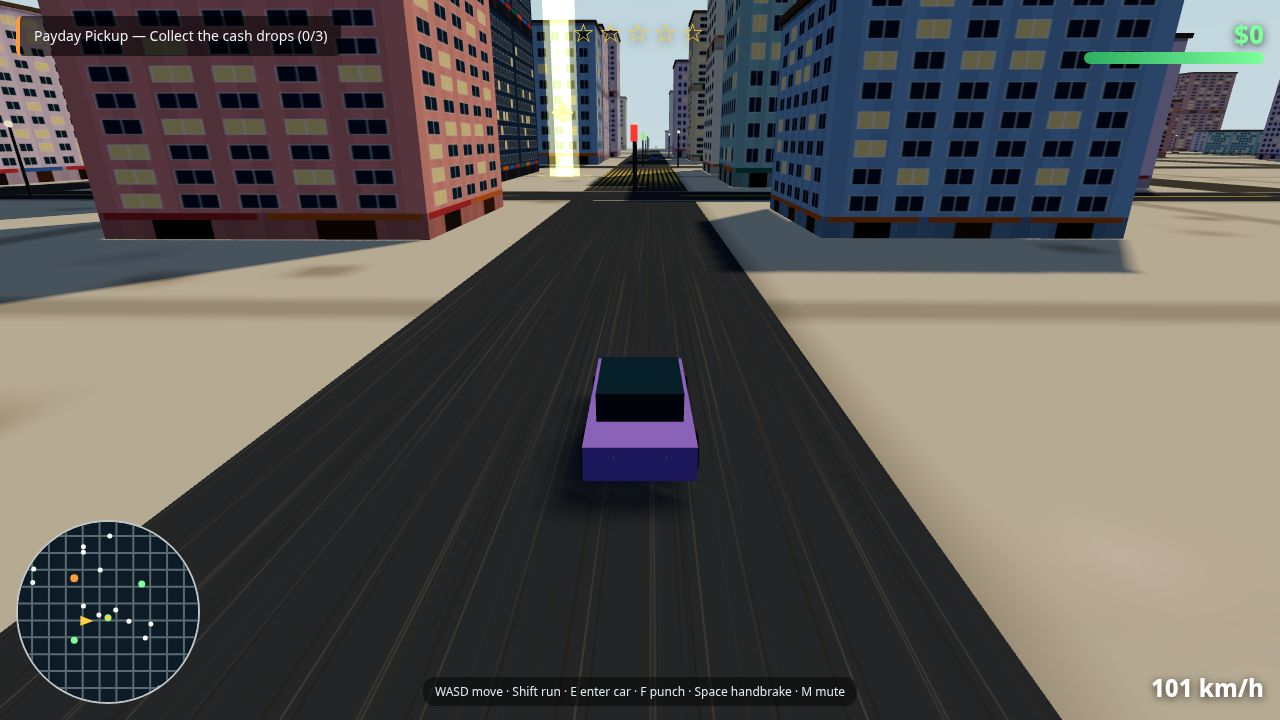
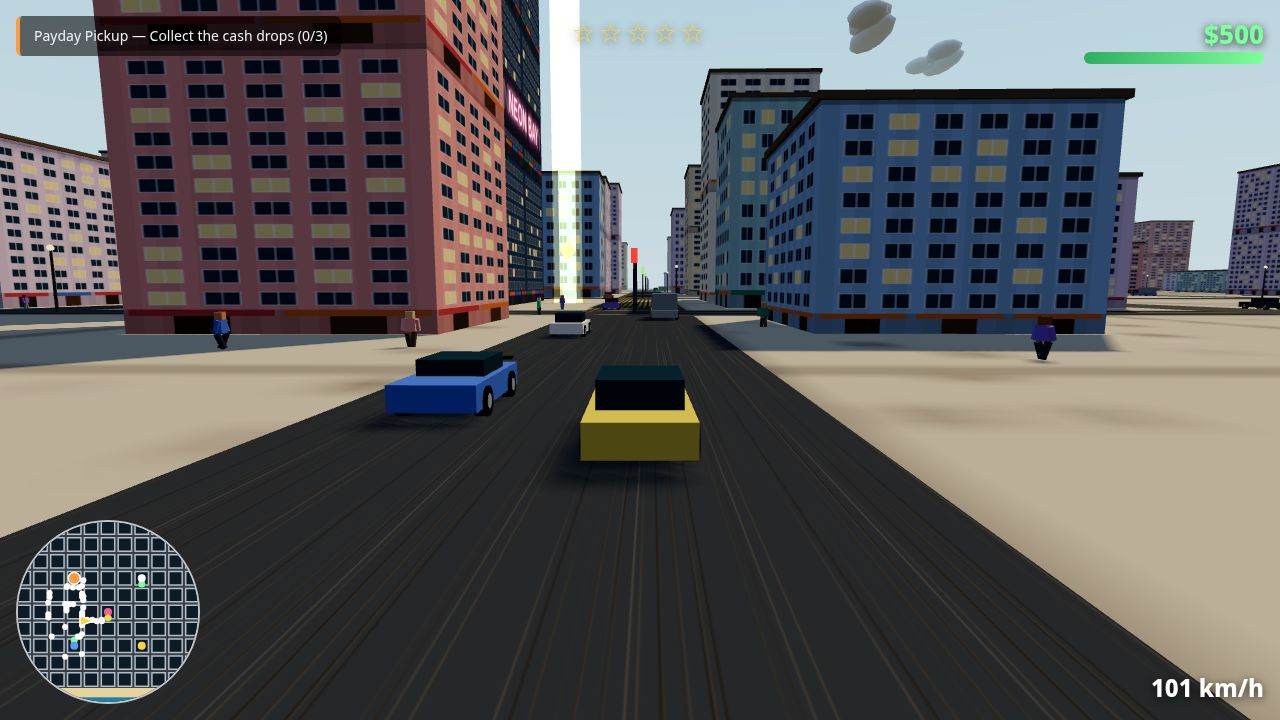
gta6-01 update U4 (R3): retake screenshots — real mission-1 completion in staging (cash $500), hint hidden via HUD override, level camera for sign shots, busy cover street

diff --git a/game/src/shots.js b/game/src/shots.js
@@ -9,7 +9,7 @@
 // does. The shape (return the screen to draw) stays the same.
 import { STEP } from './config.js';
 import { SCREEN_PLAY, SCREEN_TITLE } from './render.js';
-import { enterCar, updateDrive } from './cars.js';
+import { enterCar, exitCar, updateDrive } from './cars.js';
 import { updateTraffic } from './traffic.js';
 import { addWanted, updatePolice } from './police.js';
 import { startMission, updateMissions } from './missions.js';
@@ -119,6 +119,28 @@ function hideBanner(state) {
   } catch { /* HUD must never break staging */ }
 }
 
+// Hide the controls hint for staged shots via the HUD override, so it
+// never smudges the frame (the auto-hide would still show it this
+// early in a session).
+function hideHint(state) {
+  try {
+    if (state._hud && typeof state._hud.setHintOverride === 'function') state._hud.setHintOverride('hide');
+  } catch { /* HUD must never break staging */ }
+}
+
+// Complete mission 1 for real in the staged play, so the cash readout
+// is not $0: steal a parked car (the game's own enterCar), park it at
+// the garage front so the mission completes for +$500, then step out.
+// The shot's own mission is started explicitly after this.
+function completeMissionOne(state) {
+  startMission(state, 0);
+  const f = state._missions.garageFront;
+  putPlayerInCar(state, f.x, f.z, 0);
+  simulate(state, 4, null); // step 0 -> 1 (in a car) -> complete at garage
+  exitCar(state);
+  simulate(state, 2, null);
+}
+
 // --- The four shots -------------------------------------------------------
 
 // 1-city.jpg — city + driving (the cover). Danny drives east along the
@@ -127,15 +149,49 @@ function hideBanner(state) {
 function stageCity(state) {
   state.screen = SCREEN_PLAY;
   state.time = 0;
+  completeMissionOne(state); // cash $500, mission 2 to start below
   startMission(state, 1); // Payday Pickup — beacon at the tower drop
   putPlayerInCar(state, -180, 39, Math.PI / 2);
   // Drive 4 s straight east along the road toward the tower so it
   // looms large ahead (the car stops ~90 m short — the drop at (0,24)
   // is never reached, so the beacon stays on the tower).
   simulate(state, 240, { x: 0, z: 36 });
+  // Busy street: pull traffic and pedestrians onto the road ahead of
+  // the car so the cover shows a living street, not an empty road.
+  const p = state.player.pos;
+  [
+    { x: p.x + 22, z: 33 },
+    { x: p.x + 42, z: 39 },
+    { x: p.x + 62, z: 33 },
+  ].forEach((s, i) => {
+    const t = state.traffic[i];
+    if (!t) return;
+    t.car.pos.set(s.x, 0, s.z);
+    t.car.heading = Math.PI / 2;
+    t.car.speed = 10;
+    t.car.mesh.position.copy(t.car.pos);
+    t.car.mesh.rotation.y = Math.PI / 2;
+  });
+  [
+    { x: p.x + 18, z: 26, heading: Math.PI / 2 },
+    { x: p.x + 34, z: 46, heading: -Math.PI / 2 },
+    { x: p.x + 52, z: 26, heading: 0 },
+  ].forEach((s, i) => {
+    const ped = state.peds[i];
+    if (!ped) return;
+    ped.pos.set(s.x, 0, s.z);
+    ped.heading = s.heading;
+    ped.mesh.rotation.y = s.heading;
+    ped.state = 'walk';
+    ped.stateTimer = 6;
+  });
+  simulateAmbient(state, 20);
   const h = state.player.heading;
-  frameCamera(state, h + Math.PI, 0.34, 12);
+  // Level camera (pitch ~0.12): the tower's neon sign sits ~28 m up,
+  // and the old steep chase pitch put it above the frame top.
+  frameCamera(state, h + Math.PI, 0.12, 12);
   hideBanner(state);
+  hideHint(state);
   state.shakeTime = 0;
   return { screen: SCREEN_PLAY };
 }
@@ -147,7 +203,10 @@ function stageCity(state) {
 function stageStreet(state) {
   state.screen = SCREEN_PLAY;
   state.time = 0;
-  startMission(state, 0); // First Wheels — beacon at the garage
+  // Danny already delivered the stolen car (+$500) and stepped out in
+  // front of the garage; mission 2 is live.
+  completeMissionOne(state);
+  startMission(state, 1); // Payday Pickup — cash $500 on the HUD
   state.player.pos.set(-144, 0, -108);
   state.player.heading = Math.PI;
   if (state.player.mesh) {
@@ -171,7 +230,12 @@ function stageStreet(state) {
     ped.stateTimer = 6;
   });
   simulate(state, 120, null);
-  frameCamera(state, 0, 0.42, 9);
+  // Level camera (pitch ~0.12) pulled back a little: the garage's neon
+  // sign sits high on the south face, and the old steep pitch put it
+  // above the frame top.
+  frameCamera(state, 0, 0.12, 16);
+  hideBanner(state);
+  hideHint(state);
   state.shakeTime = 0;
   return { screen: SCREEN_PLAY };
 }
@@ -183,6 +247,7 @@ function stageStreet(state) {
 function stageChase(state) {
   state.screen = SCREEN_PLAY;
   state.time = 0;
+  completeMissionOne(state); // cash $500
   startMission(state, 0); // First Wheels — objective line + HUD heat
   putPlayerInCar(state, -180, -33, Math.PI / 2);
   addWanted(state, 2, 'stolen car');
@@ -202,6 +267,7 @@ function stageChase(state) {
   // inside the block south of it.)
   frameCamera(state, 1.92, 0.3, 16);
   hideBanner(state);
+  hideHint(state);
   state.shakeTime = 0;
   return { screen: SCREEN_PLAY };
 }
@@ -213,6 +279,7 @@ function stageChase(state) {
 function stageHeist(state) {
   state.screen = SCREEN_PLAY;
   state.time = 0;
+  completeMissionOne(state); // cash $500
   startMission(state, 4); // Bay Heist — beacon at the bank
   // On the z=180 road south of the bank, nose toward the bank front
   // (20 m short of it, so mission step 0 does not advance).
@@ -227,6 +294,8 @@ function stageHeist(state) {
   // Pulled back and levelled so the bank roofline — and the beacon
   // pillar rising from it — fit inside the frame.
   frameCamera(state, 0, 0.12, 28);
+  hideBanner(state);
+  hideHint(state);
   state.shakeTime = 0;
   return { screen: SCREEN_PLAY };
 }
